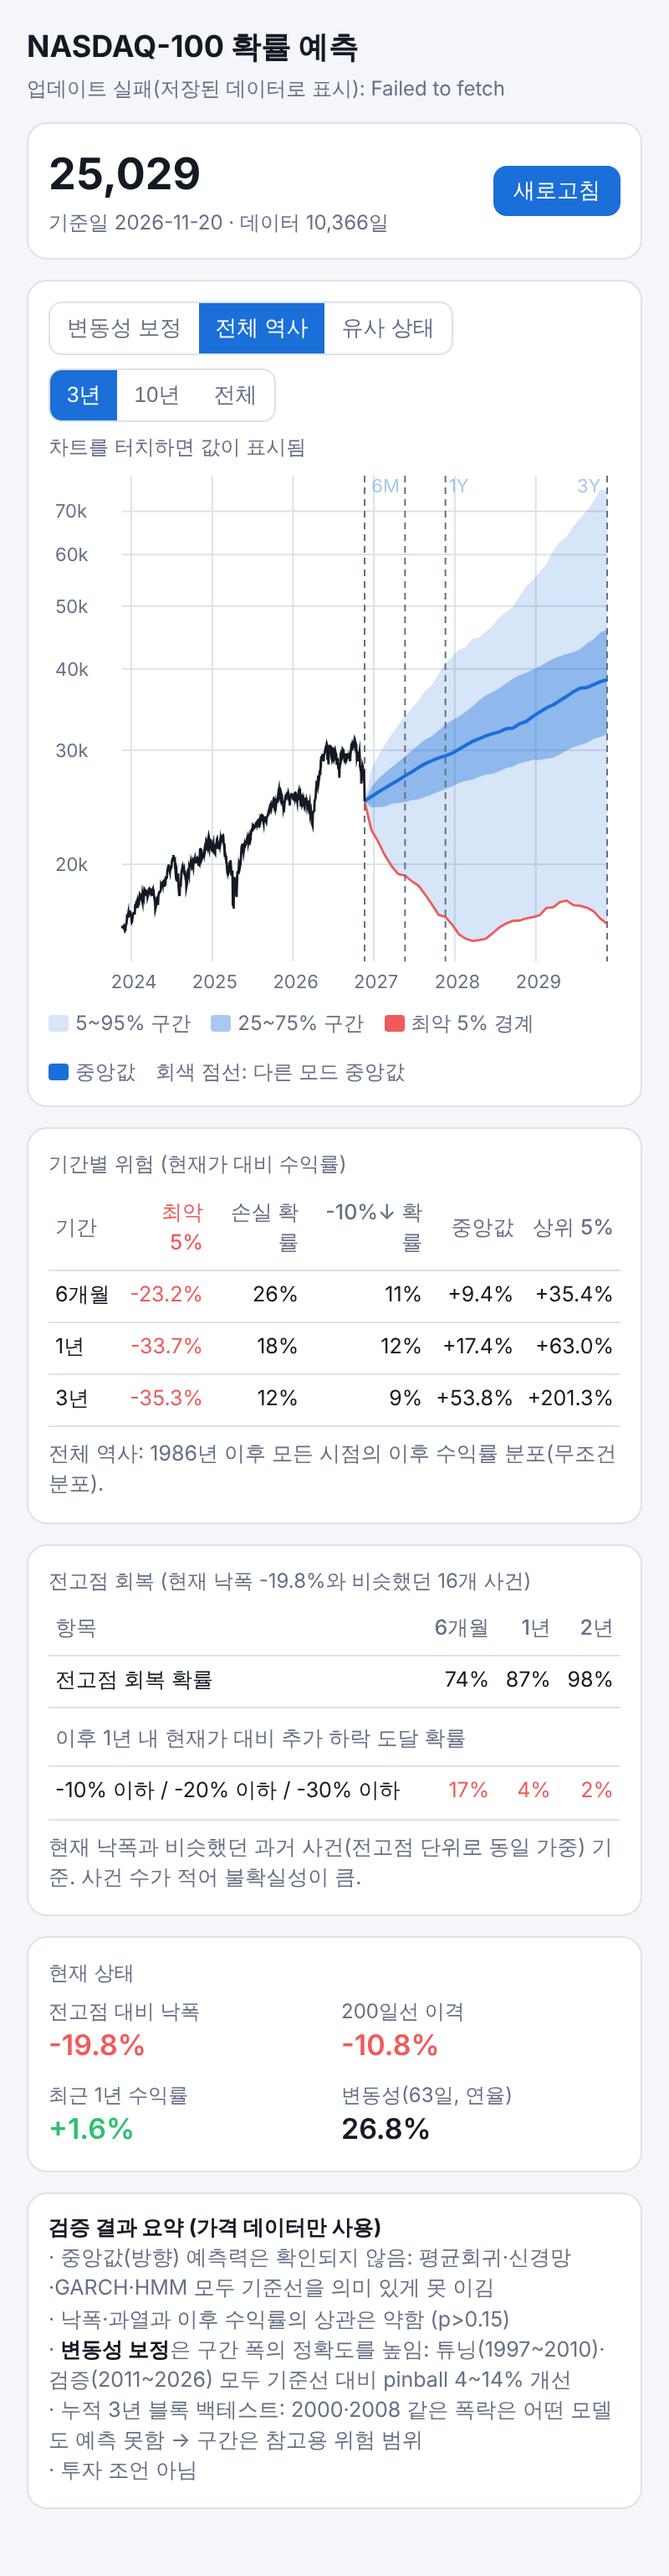
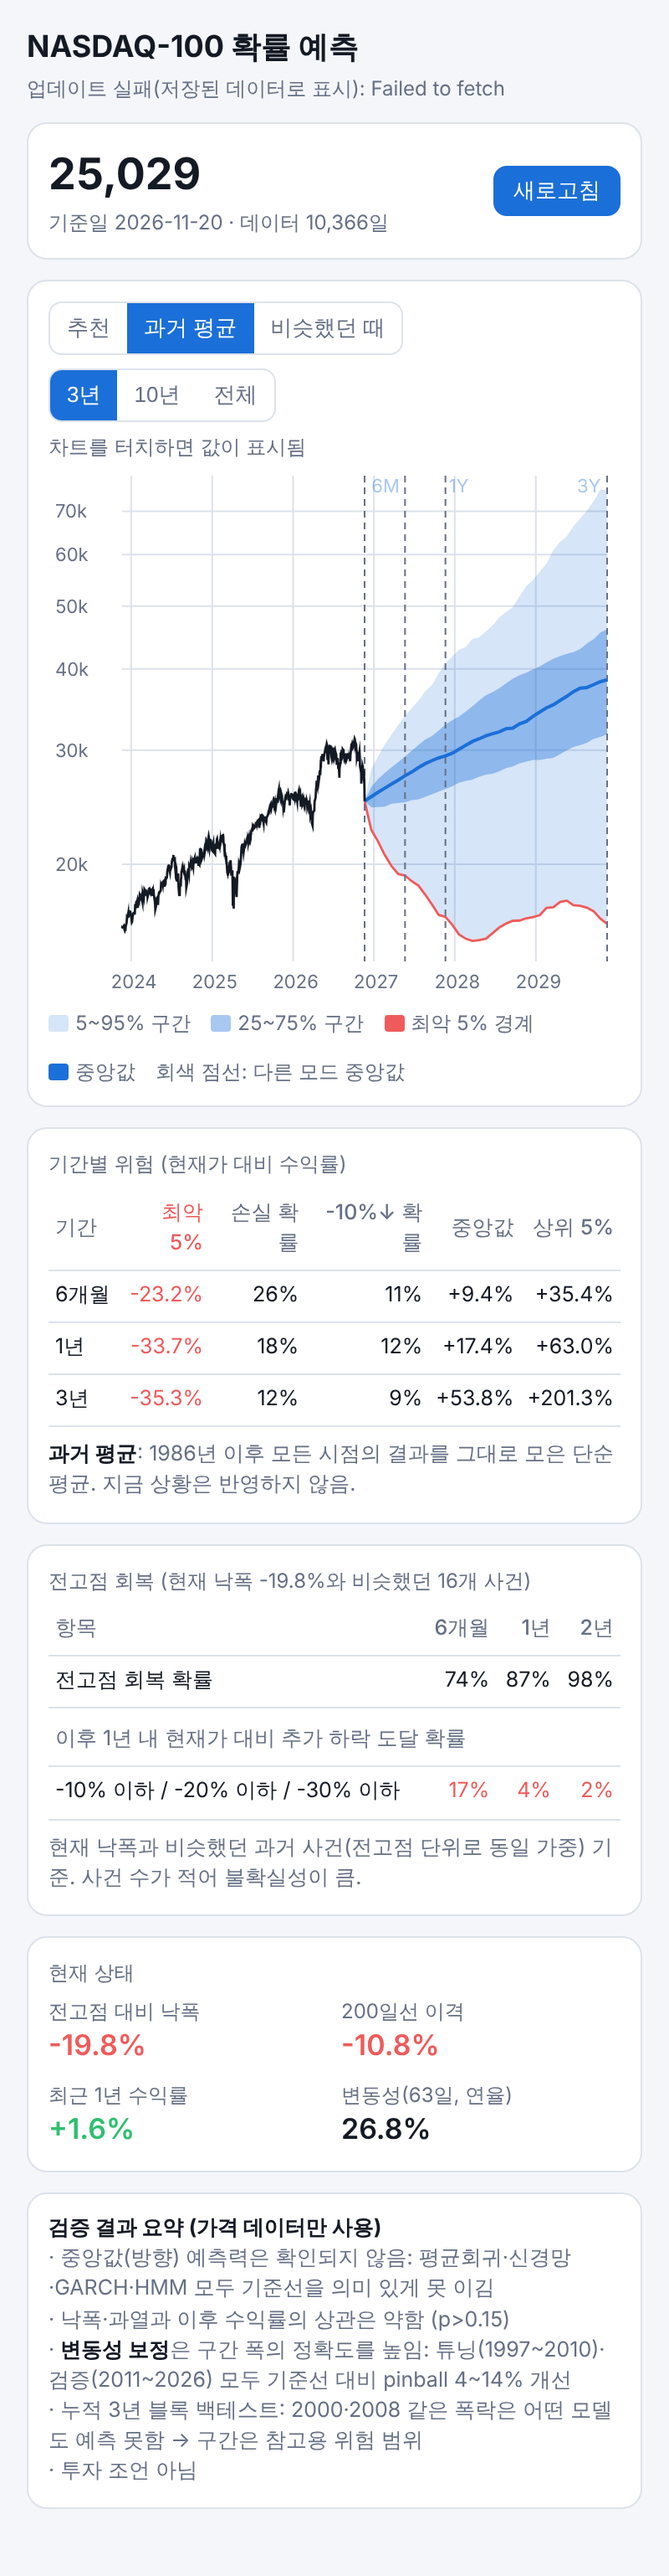
Rename forecast modes in plain Korean (20261121)
Claude-Session: https://claude.ai/code/session_01SwXTmNtugP1n3caHQ8mVWr

diff --git a/app_20261121/app/src/main/assets/index.html b/app_20261121/app/src/main/assets/index.html
@@ -47,9 +47,9 @@ th{color:var(--mute);font-weight:500}
 <div class="card">
   <div class="row" style="justify-content:space-between">
     <div class="seg" id="modeSeg">
-      <button data-m="vol" class="on">변동성 보정</button>
-      <button data-m="uncond">전체 역사</button>
-      <button data-m="knn">유사 상태</button>
+      <button data-m="vol" class="on">추천</button>
+      <button data-m="uncond">과거 평균</button>
+      <button data-m="knn">비슷했던 때</button>
     </div>
     <div class="seg" id="spanSeg">
       <button data-y="3" class="on">3년</button><button data-y="10">10년</button><button data-y="99">전체</button>
@@ -130,10 +130,10 @@ th{color:var(--mute);font-weight:500}
     $('tbl').innerHTML=html;
     var ep=R.keyStats[756].episodes;
     $('note').innerHTML=mode==='vol'
-      ?'<b>변동성 보정</b>: 과거 수익률 분포의 폭을 현재 변동성('+pct(R.state.vol63,0)+')에 맞춰 조정, 중앙값(기대수익)은 고정. 검증에서 기준선보다 구간 정확도가 높았던 방식.'
+      ?'<b>추천</b>: 과거 전체 기록을 쓰되, 지금 시장의 출렁임('+pct(R.state.vol63,0)+')에 맞춰 위아래 폭을 조정. 검증에서 가장 정확했음.'
       :mode==='knn'
-      ?'유사 상태: 낙폭·이격·1년수익률·변동성이 비슷했던 과거 250일 기준(독립 사례 약 '+R.keyStats[252].episodes+'개). 검증에서 기준선보다 나빴고 3년은 사례 ~'+ep+'개뿐이라 <b>과신 금물</b>.'
-      :'전체 역사: 1986년 이후 모든 시점의 이후 수익률 분포(무조건 분포).';
+      ?'<b>비슷했던 때</b>: 지금처럼 떨어져 있던 과거 시점만 골라 그 뒤 결과를 본 것(떨어지면 오른다는 가설). 검증에서 가장 못 맞았고 사례가 적어(3년은 약 '+ep+'개) <b>참고만</b> 하세요.'
+      :'<b>과거 평균</b>: 1986년 이후 모든 시점의 결과를 그대로 모은 단순 평균. 지금 상황은 반영하지 않음.';
   }
 
   function renderRecovery(){
